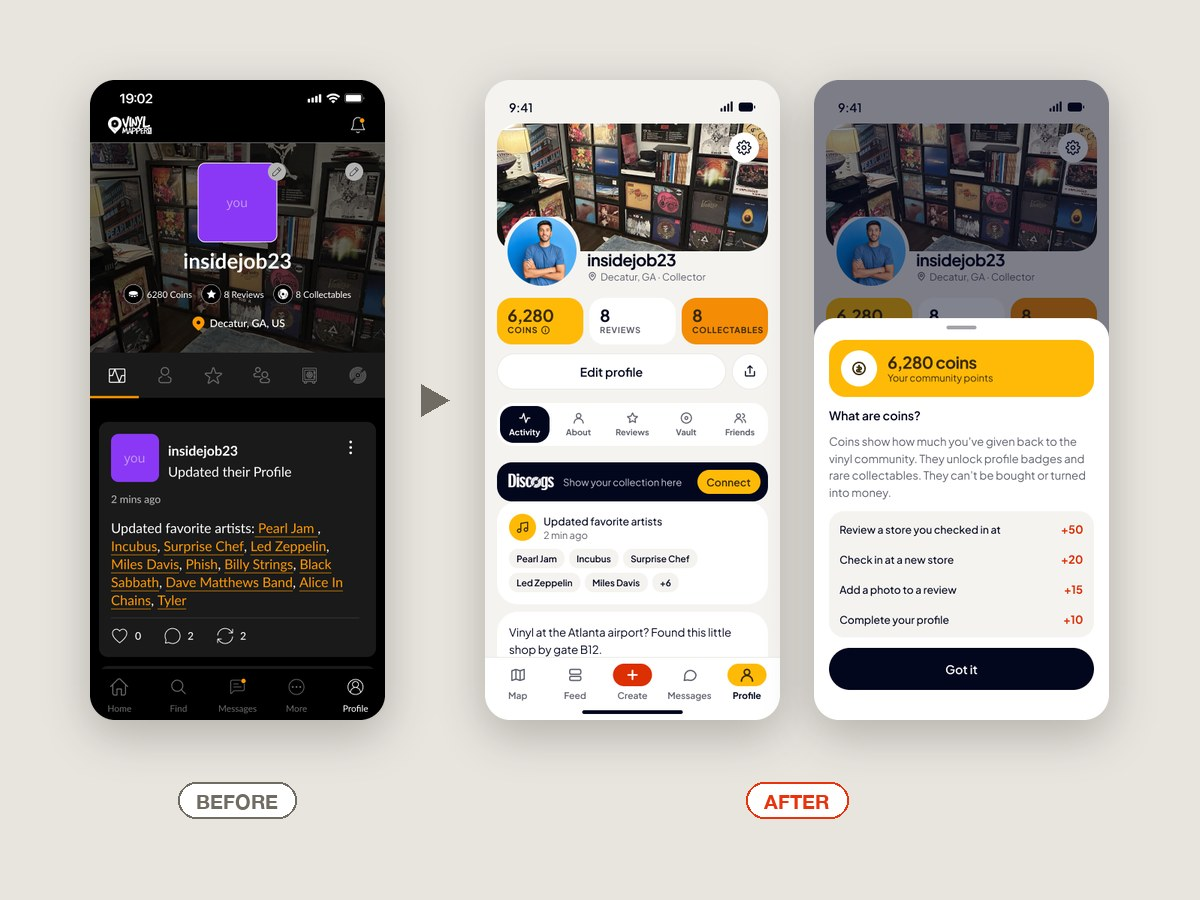
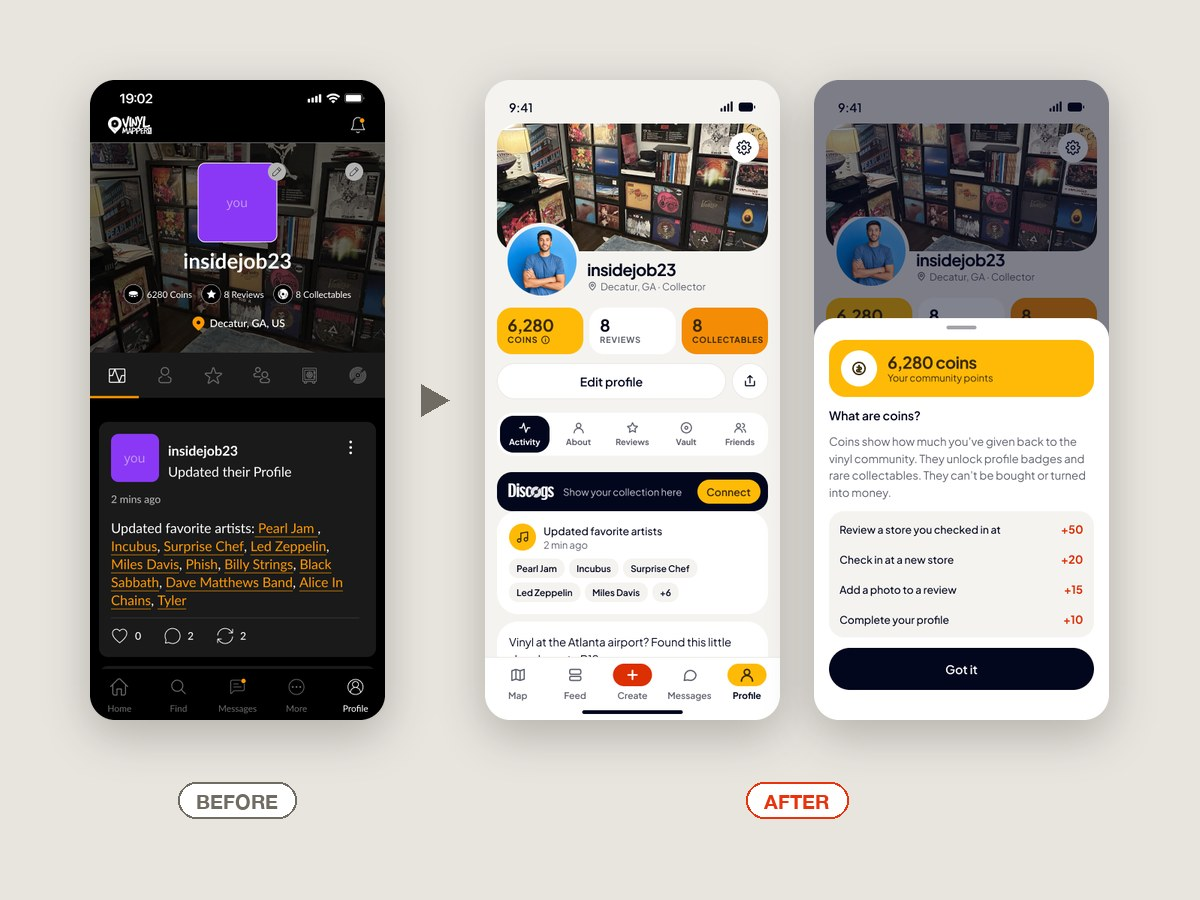
VinylMapper: use the updated Figma screens (labeled tabs, neutral claim, profile, events tab)

Changed region(s): [[0.4008, 0.4356, 0.6475, 0.7467], [0.4008, 0.2178, 0.6475, 0.4356]]

diff --git a/index.html b/index.html
@@ -14,10 +14,10 @@
 <link rel="preconnect" href="https://fonts.gstatic.com" crossorigin>
 <link href="https://fonts.googleapis.com/css2?family=Inter:wght@400;500;600;700;800&display=swap" rel="stylesheet">
 
-<link rel="stylesheet" href="css/style.css?v=20261170">
-<link rel="stylesheet" href="css/home.css?v=20261170">
-<link rel="stylesheet" href="css/hero-lab.css?v=20261170">
-<script src="js/page-wipe.js?v=20261170"></script>
+<link rel="stylesheet" href="css/style.css?v=20261171">
+<link rel="stylesheet" href="css/home.css?v=20261171">
+<link rel="stylesheet" href="css/hero-lab.css?v=20261171">
+<script src="js/page-wipe.js?v=20261171"></script>
 </head>
 <body data-page="work">
 
@@ -133,15 +133,15 @@
 <!-- InertiaPlugin was only used by the dot-grid background below; re-enable
      it alongside the dot-grid script tag if that background comes back. -->
 <!-- <script src="https://cdn.jsdelivr.net/npm/gsap@3.13.0/dist/InertiaPlugin.min.js"></script> -->
-<script src="js/main.js?v=20261170"></script>
-<script src="js/cursor.js?v=20261170"></script>
-<!-- <script src="js/dot-grid.js?v=20261170"></script> -->
-<script src="js/cursor-trail.js?v=20261170"></script>
-<script src="js/text-type.js?v=20261170"></script>
-<script src="js/accordion-gallery.js?v=20261170"></script>
-<script src="js/projects-data.js?v=20261170"></script>
-<script src="js/home.js?v=20261170"></script>
-<script src="js/tech-text.js?v=20261170"></script>
-<script src="js/hero-lab.js?v=20261170"></script>
+<script src="js/main.js?v=20261171"></script>
+<script src="js/cursor.js?v=20261171"></script>
+<!-- <script src="js/dot-grid.js?v=20261171"></script> -->
+<script src="js/cursor-trail.js?v=20261171"></script>
+<script src="js/text-type.js?v=20261171"></script>
+<script src="js/accordion-gallery.js?v=20261171"></script>
+<script src="js/projects-data.js?v=20261171"></script>
+<script src="js/home.js?v=20261171"></script>
+<script src="js/tech-text.js?v=20261171"></script>
+<script src="js/hero-lab.js?v=20261171"></script>
 </body>
 </html>

diff --git a/js/projects-data.js b/js/projects-data.js
@@ -629,8 +629,8 @@ const PROJECTS = [
       "Figma"
     ],
     "excerpt": "A redesign of a social app for record collectors, driven by research with five audience groups that turned five verdicts into a ranked list of changes.",
-    "showcase": "assets/images/vinylmapper_case_cover.png?v=2",
-    "cover": "assets/images/vinylmapper-header.jpg?v=2",
+    "showcase": "assets/images/vinylmapper_case_cover.png?v=3",
+    "cover": "assets/images/vinylmapper-header.jpg?v=3",
     "gallery": [],
     "caseStudy": {
       "outcome": "Turning feedback from five audience groups into a clearer, more useful VinylMapper.",
@@ -756,7 +756,7 @@ const PROJECTS = [
             "b": {
               "label": "Labelled tabs and plain explanations",
               "note": "Nothing needs to be learned by tapping.",
-              "image": "assets/images/vk-decision5.jpg"
+              "image": "assets/images/vk-decision5.jpg?v=2"
             }
           },
           {
@@ -802,10 +802,10 @@ const PROJECTS = [
                 "src": "assets/images/vk-s-nav.jpg"
               },
               {
-                "src": "assets/images/vk-s-trust.jpg"
+                "src": "assets/images/vk-s-trust.jpg?v=2"
               },
               {
-                "src": "assets/images/vk-s-profile.jpg"
+                "src": "assets/images/vk-s-profile.jpg?v=2"
               }
             ]
           },
@@ -819,7 +819,7 @@ const PROJECTS = [
                 "src": "assets/images/vk-s-find.jpg"
               },
               {
-                "src": "assets/images/vk-s-owner.jpg"
+                "src": "assets/images/vk-s-owner.jpg?v=2"
               },
               {
                 "src": "assets/images/vk-s-reviews.jpg"

diff --git a/project.html b/project.html
@@ -14,9 +14,9 @@
 <link rel="preconnect" href="https://fonts.gstatic.com" crossorigin>
 <link href="https://fonts.googleapis.com/css2?family=Inter:wght@400;500;600;700;800&display=swap" rel="stylesheet">
 
-<link rel="stylesheet" href="css/style.css?v=20261170">
-<link rel="stylesheet" href="css/project.css?v=20261170">
-<script src="js/page-wipe.js?v=20261170"></script>
+<link rel="stylesheet" href="css/style.css?v=20261171">
+<link rel="stylesheet" href="css/project.css?v=20261171">
+<script src="js/page-wipe.js?v=20261171"></script>
 </head>
 <body>
 
@@ -70,9 +70,9 @@
   </div>
 </footer>
 
-<script src="js/main.js?v=20261170"></script>
-<script src="js/cursor.js?v=20261170"></script>
-<script src="js/projects-data.js?v=20261170"></script>
-<script src="js/project-page.js?v=20261170"></script>
+<script src="js/main.js?v=20261171"></script>
+<script src="js/cursor.js?v=20261171"></script>
+<script src="js/projects-data.js?v=20261171"></script>
+<script src="js/project-page.js?v=20261171"></script>
 </body>
 </html>

diff --git a/hero-lab.html b/hero-lab.html
@@ -15,8 +15,8 @@
 <link rel="preconnect" href="https://fonts.gstatic.com" crossorigin>
 <link href="https://fonts.googleapis.com/css2?family=Inter:wght@400;500;600;700;800&display=swap" rel="stylesheet">
 
-<link rel="stylesheet" href="css/style.css?v=20261170">
-<link rel="stylesheet" href="css/hero-lab.css?v=20261170">
+<link rel="stylesheet" href="css/style.css?v=20261171">
+<link rel="stylesheet" href="css/hero-lab.css?v=20261171">
 </head>
 <body data-page="lab">
 
@@ -71,9 +71,9 @@
   </section>
 </main>
 
-<script src="js/main.js?v=20261170"></script>
-<script src="js/cursor.js?v=20261170"></script>
-<script src="js/tech-text.js?v=20261170"></script>
-<script src="js/hero-lab.js?v=20261170"></script>
+<script src="js/main.js?v=20261171"></script>
+<script src="js/cursor.js?v=20261171"></script>
+<script src="js/tech-text.js?v=20261171"></script>
+<script src="js/hero-lab.js?v=20261171"></script>
 </body>
 </html>

diff --git a/about.html b/about.html
@@ -14,9 +14,9 @@
 <link rel="preconnect" href="https://fonts.gstatic.com" crossorigin>
 <link href="https://fonts.googleapis.com/css2?family=Inter:wght@400;500;600;700;800&display=swap" rel="stylesheet">
 
-<link rel="stylesheet" href="css/style.css?v=20261170">
-<link rel="stylesheet" href="css/about.css?v=20261170">
-<script src="js/page-wipe.js?v=20261170"></script>
+<link rel="stylesheet" href="css/style.css?v=20261171">
+<link rel="stylesheet" href="css/about.css?v=20261171">
+<script src="js/page-wipe.js?v=20261171"></script>
 </head>
 <body data-page="about">
 
@@ -169,7 +169,7 @@
   </div>
 </footer>
 
-<script src="js/main.js?v=20261170"></script>
-<script src="js/cursor.js?v=20261170"></script>
+<script src="js/main.js?v=20261171"></script>
+<script src="js/cursor.js?v=20261171"></script>
 </body>
 </html>
